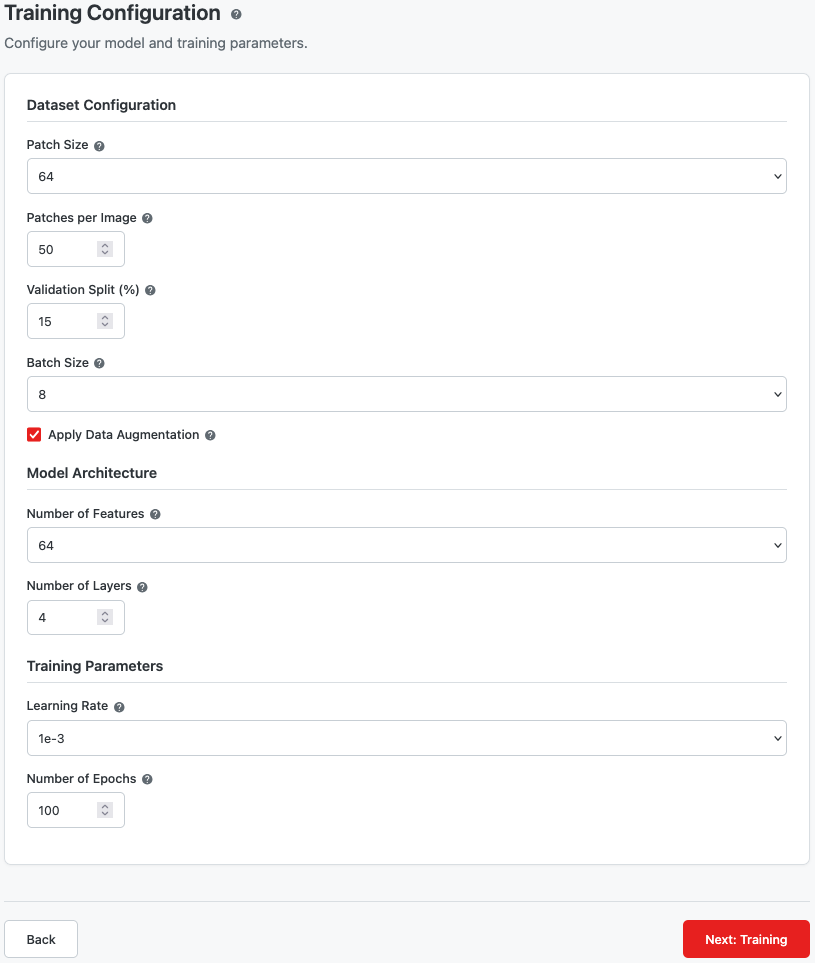
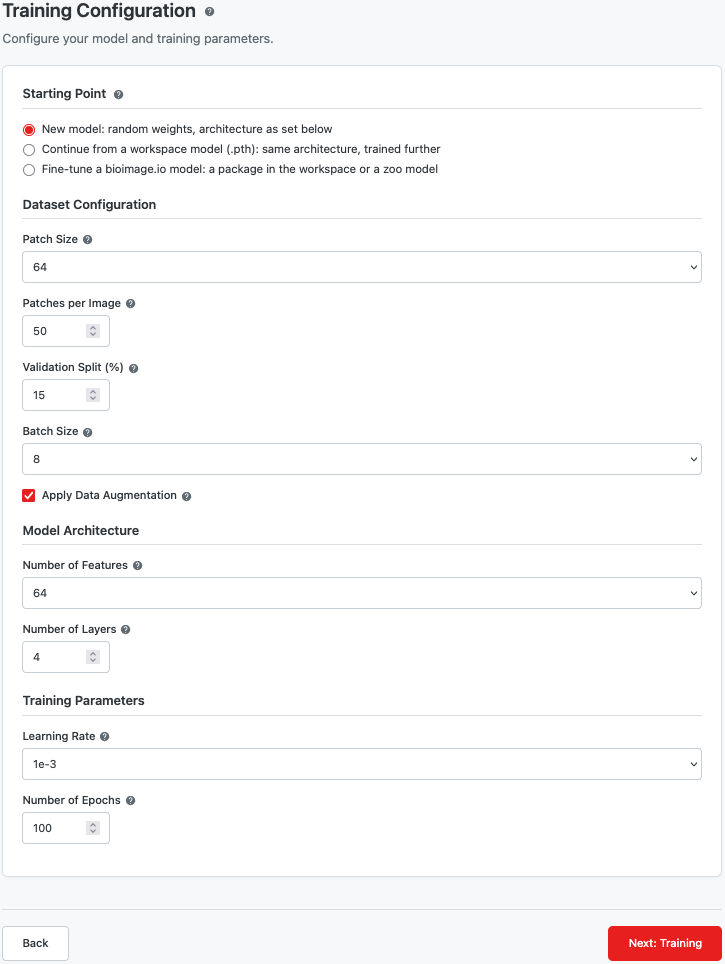
guides: segmentation guide and help mirror for workspace 1.10.0 (fine-tuning from a starting point)

diff --git a/src/workspace/guides/segmentation-module.md b/src/workspace/guides/segmentation-module.md
@@ -96,7 +96,7 @@ Expand the **Use a bioimage.io Model** section to run a published model from the
 | Input | Description |
 |-------|-------------|
 | **Zoo list** | Searchable list of the zoo models the workspace can run: PyTorch weights, one grayscale input, 2D or 3D, and no missing Python packages for the model's architecture code. Denoising and other non-segmentation models are hidden unless you tick *Show all runnable models* |
-| **Uploaded package** | A bioimage.io package (.zip) uploaded through the file browser under Model Files, or exported from one of your own trained models with the file browser's *Export as bioimage.io package…* action (see [bioimage.io Export](/workspace/docs/modules/file-browser/bioimageio-export)). See [bioimage.io Package Upload](/workspace/docs/modules/segmentation/step1-bioimageio-package) |
+| **Uploaded package** | A bioimage.io package (.zip) uploaded through the file browser under Model Files, exported from one of your own trained models with the file browser's *Export as bioimage.io package…* action (see [bioimage.io Export](/workspace/docs/modules/file-browser/bioimageio-export)), or produced by fine-tuning in Step 2. See [bioimage.io Package Upload](/workspace/docs/modules/segmentation/step1-bioimageio-package) |
 
 Selecting a model shows a card with its input geometry, output channels, weight format, license and citation. Only the description is fetched at this point; the weights are downloaded when the first run starts and kept in a server-wide cache. A small model card is written to your workspace so that every result records which model produced it.
 
@@ -112,6 +112,21 @@ Configure how your model will be trained. Default values work well for most case
 
 ![Step 2 Configuration](/guides/segmentation-step2.png)
 *Training configuration with dataset, architecture, and training parameters*
+
+#### Starting Point
+
+Since 1.10.0 a run does not have to start from random weights. The first group of Step 2 offers three starting points; see [Starting Point](/workspace/docs/modules/segmentation/config-starting-point).
+
+| Starting point | What you pick | What comes out |
+|----------------|---------------|----------------|
+| **New model** | Nothing; the architecture below applies | A `.pth` model, as before |
+| **Continue from a workspace model** | A `.pth` model from Model Files (trained here or imported) | A new `.pth` model; features and layers are locked to the parent |
+| **Fine-tune a bioimage.io model** | A package from Model Files (uploaded or exported) or a zoo model from the list | A new bioimage.io package, selected for Step 4 at once and listed under Model Files |
+
+![Starting point](/guides/segmentation-starting-point.png)
+*Step 2 with a zoo model chosen as the starting point*
+
+The choice is checked against your training pairs immediately: a softmax model needs exactly as many annotation classes as it has channels (background included), a single-sigmoid model needs two classes, and the patch size list only offers sizes the model's input rule accepts. Zoo models that predict foreground plus boundaries, 3D models and torchscript-only models cannot be fine-tuned and are not listed. Picking a starting model sets the learning rate to 1e-4 and the epochs to 30 unless you edited those fields. In Step 3 a bioimage.io parent adds the stages *loading the starting model*, *writing the fine-tuned package* and *self-testing the package*; a package that fails its self-test is not kept.
 
 #### Dataset Configuration
 
@@ -281,6 +296,7 @@ These files appear in your workspace file browser after processing completes.
 
 ### Step 2: Configuration
 - [Training Configuration](/workspace/docs/modules/segmentation/step2)
+- [Starting Point](/workspace/docs/modules/segmentation/config-starting-point)
 - [Patch Size](/workspace/docs/modules/segmentation/config-patch-size)
 - [Patches per Image](/workspace/docs/modules/segmentation/config-patches-per-image)
 - [Validation Split](/workspace/docs/modules/segmentation/config-validation-split)

diff --git a/docs/manual/modules/segmentation/config-starting-point.md b/docs/manual/modules/segmentation/config-starting-point.md
@@ -1,0 +1,50 @@
+---
+id: segmentation.config.starting-point
+title: Starting Point
+displayTitle: Starting Point (Segmentation)
+category: parameter
+module: segmentation
+tags:
+  - segmentation
+  - training
+  - fine-tuning
+  - bioimageio
+  - configuration
+  - pretrained
+seeAlsoManual:
+  - segmentation.step2
+  - segmentation.step1.bioimageio
+  - segmentation.step1.bioimageio-package
+  - file-browser.bioimageio-export
+seeAlsoTags:
+  - fine-tuning
+  - training
+parameterImpact: |
+  Starting from a trained model usually reaches a good result in far fewer epochs than a new model, and it is the way to adapt a zoo model to your data. Keep the learning rate low (1e-4 is the default here) so the pretrained weights are refined, not overwritten.
+---
+
+# Starting Point
+
+Train a new model, continue training a workspace model, or fine-tune a bioimage.io model on your annotations.
+
+The training run in Step 3 always uses the training pairs you validated in Step 1. What differs is where the weights start:
+
+- **New model**: random weights, with the architecture you set below (features and layers). This is the default.
+- **Continue from a workspace model**: pick a `.pth` model from Model Files (one trained here before, or an imported one). The architecture is fixed by that model, so the features and layers fields are locked. The result is a new `.pth` model, listed under Model Files with a processing history that points at the parent and the training pairs.
+- **Fine-tune a bioimage.io model**: pick a package from Model Files (an uploaded package or one exported from a workspace model) or a zoo model from the list. The model's own preprocessing is applied to your slices, its architecture is trained further, and the result is a new bioimage.io package. When training finishes, that package is selected for Step 4 and appears under Model Files, ready for tiled inference, for another round of fine-tuning, or for download.
+
+## What is checked when you pick a model
+
+The choice is checked against your training pairs at once:
+
+- **Classes.** A model with a softmax over C channels needs annotations with exactly C classes (background included; class k goes to channel k). A model with a single sigmoid channel needs annotations with exactly two classes (background and one foreground class). A mismatch is refused with the numbers; change the annotations or pick another model.
+- **Patch size.** Some bioimage.io models declare a fixed input size (often 256) or a size rule (a minimum plus multiples of a step). The patch size list only offers sizes the model accepts.
+- **Head.** Zoo models that can be fine-tuned are those with a softmax over classes, one sigmoid channel, or one channel of probabilities. Models that predict foreground plus boundaries, 3D models and models with torchscript weights only are not listed. The zoo list is narrowed further to models whose class count matches your pairs, so with three or more classes only softmax models remain, and the zoo's single-channel models appear for two-class annotations.
+
+## Defaults for fine-tuning
+
+Choosing a starting model sets the learning rate to 1e-4 and the epochs to 30, unless you edited those fields yourself. Choosing "New model" restores 1e-3 and 100. Patches, augmentation and the validation split work as for any run.
+
+## What the run looks like
+
+Step 3 shows extra stages for a bioimage.io parent: loading the model (a zoo model is downloaded on first use), then, after the last epoch, writing the package and running its self-test. A package that fails its self-test is not kept and the run reports the failure.

diff --git a/docs/manual/modules/segmentation/step1-workflow-choice.md b/docs/manual/modules/segmentation/step1-workflow-choice.md
@@ -25,8 +25,8 @@ Choose between training a new model, importing a model trained here before, or r
 
 ## You have three options for how to proceed with segmentation
 
-Train from Scratch: Choose this option when you have training data (images with corresponding annotation masks) and want to train a new model specifically for your data. This is the best choice when your images have unique characteristics that differ from standard datasets, or when you need optimal accuracy for your specific use case. Training requires labeled examples but produces a model tailored to your data.
+Train from Scratch: Choose this option when you have training data (images with corresponding annotation masks) and want to train a model on your data. This is the best choice when your images have unique characteristics that differ from standard datasets, or when you need optimal accuracy for your specific use case. Training requires labeled examples but produces a model tailored to your data. The same path also fine-tunes an existing model: in Step 2 you can start from a workspace model or a bioimage.io model instead of random weights.
 
 Use Pretrained Model: Choose this option when you already have a trained model (.pth file) and its configuration (.json file) from a previous training session. This allows you to skip the training process entirely and go directly to running inference. This is useful when you want to apply a previously trained model to new data, or when sharing models between team members.
 
-Use a bioimage.io Model: Choose this option to run a published model from the bioimage.io model zoo, or an uploaded bioimage.io package, on your stack. Nothing is trained; the model is downloaded on first use and applied with tiled inference. This is the fastest way to a first segmentation of a common structure such as mitochondria or membranes, and its result can be corrected in the Annotation module and used to train a workspace model.
+Use a bioimage.io Model: Choose this option to run a published model from the bioimage.io model zoo, or an uploaded bioimage.io package, on your stack. Nothing is trained; the model is downloaded on first use and applied with tiled inference. This is the fastest way to a first segmentation of a common structure such as mitochondria or membranes, and its result can be corrected in the Annotation module and used to train a workspace model, or to fine-tune the zoo model itself (Train from Scratch, then Starting Point in Step 2).

diff --git a/docs/manual/modules/segmentation/step2.md b/docs/manual/modules/segmentation/step2.md
@@ -10,6 +10,7 @@ tags:
   - parameters
   - workflow
 seeAlsoManual:
+  - segmentation.config.starting-point
   - segmentation.config.patch-size
   - segmentation.config.num-layers
   - segmentation.step3
@@ -22,11 +23,13 @@ seeAlsoTags:
 
 Set the parameters that control how your U-Net model is built and trained before starting a run.
 
-Step 2 groups the settings into three sections:
+Step 2 groups the settings into four sections:
+
+Starting Point: Train a new model, continue training a workspace model (.pth), or fine-tune a bioimage.io model (a package in the workspace or a zoo model) on your annotations. A starting model fixes the architecture and, for bioimage.io models, the patch sizes it accepts; the learning rate and epochs switch to fine-tuning defaults. See the Starting Point article.
 
 Dataset Configuration: Patch size, patches per image, validation split, batch size, and whether to apply data augmentation. These control how training patches are sampled from your labelled slices and how many of those slices are held back for validation.
 
-Model Architecture: Number of features and number of layers, which define the size and depth of the U-Net.
+Model Architecture: Number of features and number of layers, which define the size and depth of the U-Net. Locked when the run starts from an existing model.
 
 Training Parameters: Learning rate and number of epochs, which govern the optimization process.
 

diff --git a/docs/manual/modules/segmentation/step1-bioimageio.md b/docs/manual/modules/segmentation/step1-bioimageio.md
@@ -14,6 +14,7 @@ seeAlsoManual:
   - segmentation.step1.bioimageio-package
   - segmentation.step4.output-conversion
   - segmentation.step1.workflow-choice
+  - segmentation.config.starting-point
 seeAlsoTags:
   - pretrained
   - inference
@@ -62,3 +63,7 @@ Zoo models were trained on specific datasets. On unlike data the result can be p
 If tile edges show in a result, the model is not confident anywhere on that data: its outputs sit close to the threshold, so the tiny differences between neighbouring tiles flip pixels from one class to the other. On data the model handles, the tiled and the whole-image prediction agree to well under a percent, and the edges disappear.
 
 3D models load the whole stack into memory as float values. Runs above 1.5 billion voxels are refused; crop or downsample such stacks first.
+
+## Fine-tuning a zoo model
+
+A zoo model whose output is a softmax over classes or a single sigmoid channel can also be trained further on your annotations: choose Train from Scratch in Step 1, validate your pairs, and pick the model under Starting Point in Step 2. The result is a new bioimage.io package in your workspace.

diff --git a/docs/manual/modules/segmentation/step3.md b/docs/manual/modules/segmentation/step3.md
@@ -33,6 +33,10 @@ Weight Update: Parameters are adjusted in the direction that reduces the loss, c
 
 This cycle repeats for every batch of patches in each epoch. Over time, the loss should decrease as the model learns to produce predictions that match your annotations more closely.
 
+## Runs that start from a model
+
+When Step 2 names a starting point, the status line shows the extra stages: loading the model first (a zoo model is downloaded on first use), and, for a bioimage.io parent, writing the fine-tuned package and running its self-test after the last epoch. The package is then selected for Step 4 and listed under Model Files; a run that continued from a workspace `.pth` model produces a new `.pth` model as usual.
+
 ## Which slices take part
 
 When the run starts, the progress panel states how many labelled slices it trains on, out of how many slices in total, and how many of them are held back for validation. Unlabelled slices are skipped. After each epoch the model is scored on the validation slices, and the checkpoint with the best validation Dice is the one you keep; there is no separate test split.

diff --git a/docs/manual/modules/segmentation/_module.md b/docs/manual/modules/segmentation/_module.md
@@ -28,7 +28,7 @@ U-Net is a convolutional neural network architecture designed specifically for b
 
 Step 1: Select one or more training pairs (a raw stack with its annotation mask), choose a pretrained workspace model if you already have one, or pick a model from the bioimage.io model zoo. Only labelled slices are used, so partially annotated stacks train correctly.
 
-Step 2: Configure training parameters like patch size, batch size, learning rate, and number of epochs. These settings control how the model learns from your data.
+Step 2: Choose the starting point (a new model, a workspace model to continue, or a bioimage.io model to fine-tune) and configure training parameters like patch size, batch size, learning rate, and number of epochs. These settings control how the model learns from your data.
 
 Step 3: Monitor training progress with real-time loss charts and Dice score metrics. Watch for convergence and potential overfitting.
 

diff --git a/docs/manual/modules/segmentation/step1-bioimageio-package.md b/docs/manual/modules/segmentation/step1-bioimageio-package.md
@@ -35,7 +35,7 @@ A state dict package runs its own architecture code on the server when the model
 
 ## Your own models
 
-A package exported from a workspace `.pth` model (right-click the model file under Model Files) is listed here as well. Running it this way gives the model tiled inference with a halo, so the stack size no longer has to be a multiple of 2 to the number of layers, and the output conversion defaults to argmax, which reproduces the model's ordinary class map.
+A package exported from a workspace `.pth` model (right-click the model file under Model Files) is listed here as well, and so is a package produced by fine-tuning in Step 2. Running it this way gives the model tiled inference with a halo, so the stack size no longer has to be a multiple of 2 to the number of layers, and the output conversion defaults to argmax, which reproduces the model's ordinary class map.
 
 ## Provenance
 

diff --git a/docs/manual/modules/file-browser/bioimageio-export.md b/docs/manual/modules/file-browser/bioimageio-export.md
@@ -43,6 +43,7 @@ The result is a zip under Model Files, tagged `bioimageio`, with a processing hi
 ## Using the package
 
 - **In the workspace**: select it in the Segmentation module under Step 1, *Use a bioimage.io Model*, as an uploaded package. It then runs with tiled inference and a halo, so the image size no longer has to be a multiple of 2 to the number of layers. The output conversion defaults to argmax, which gives the same class map as the model's ordinary run.
+- **As a starting point**: pick it under Starting Point in Step 2 of a training run to fine-tune it on corrected annotations; the result is another package.
 - **Elsewhere**: download the zip and open it in any tool that reads bioimage.io packages (for example ilastik, deepImageJ, QuPath or napari), or upload it to [bioimage.io](https://bioimage.io) for publication.
 
 ## Normalisation note
